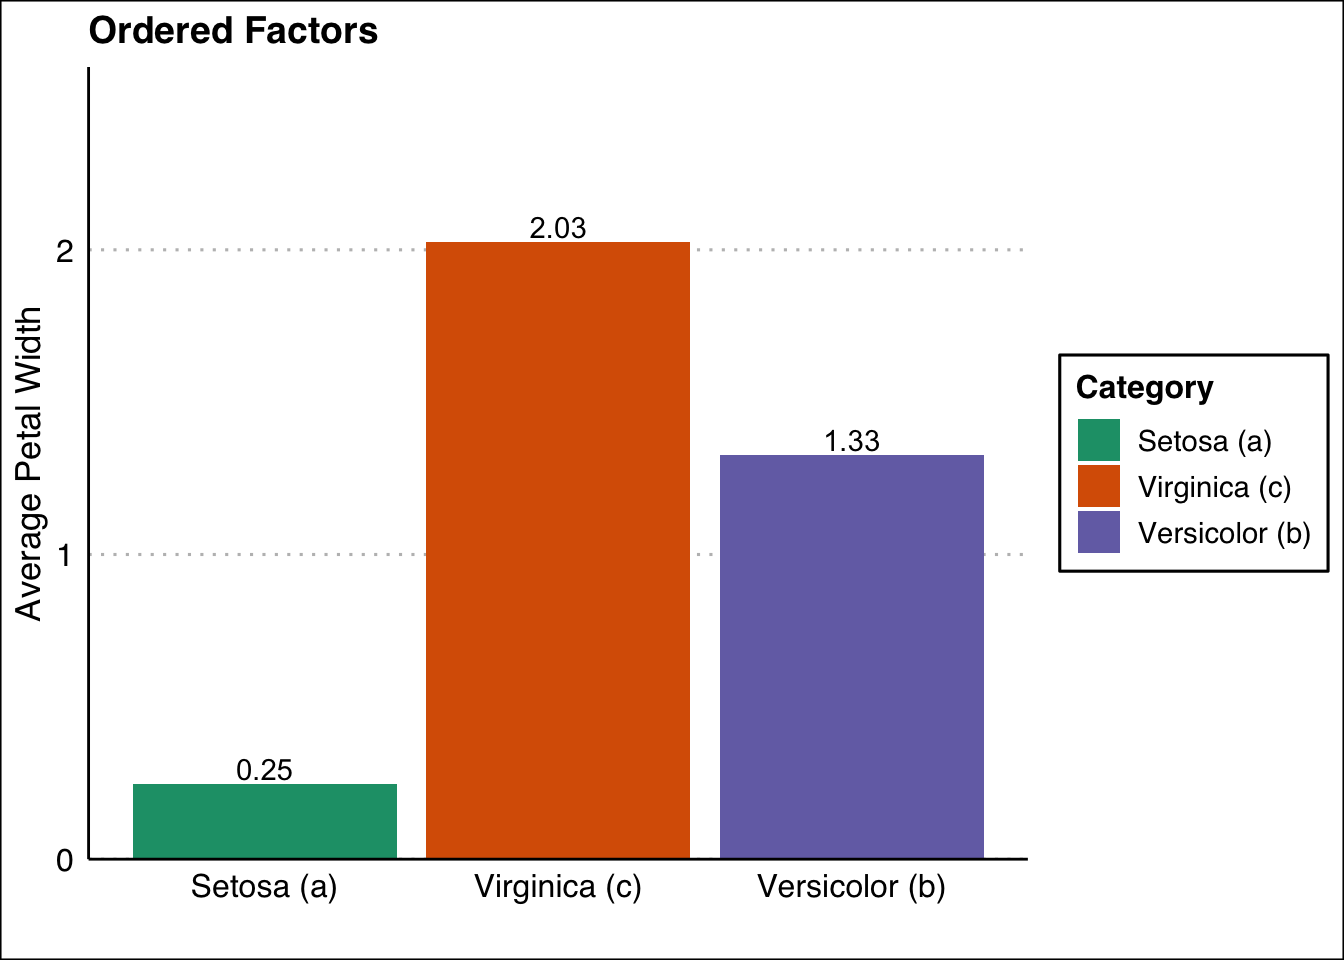
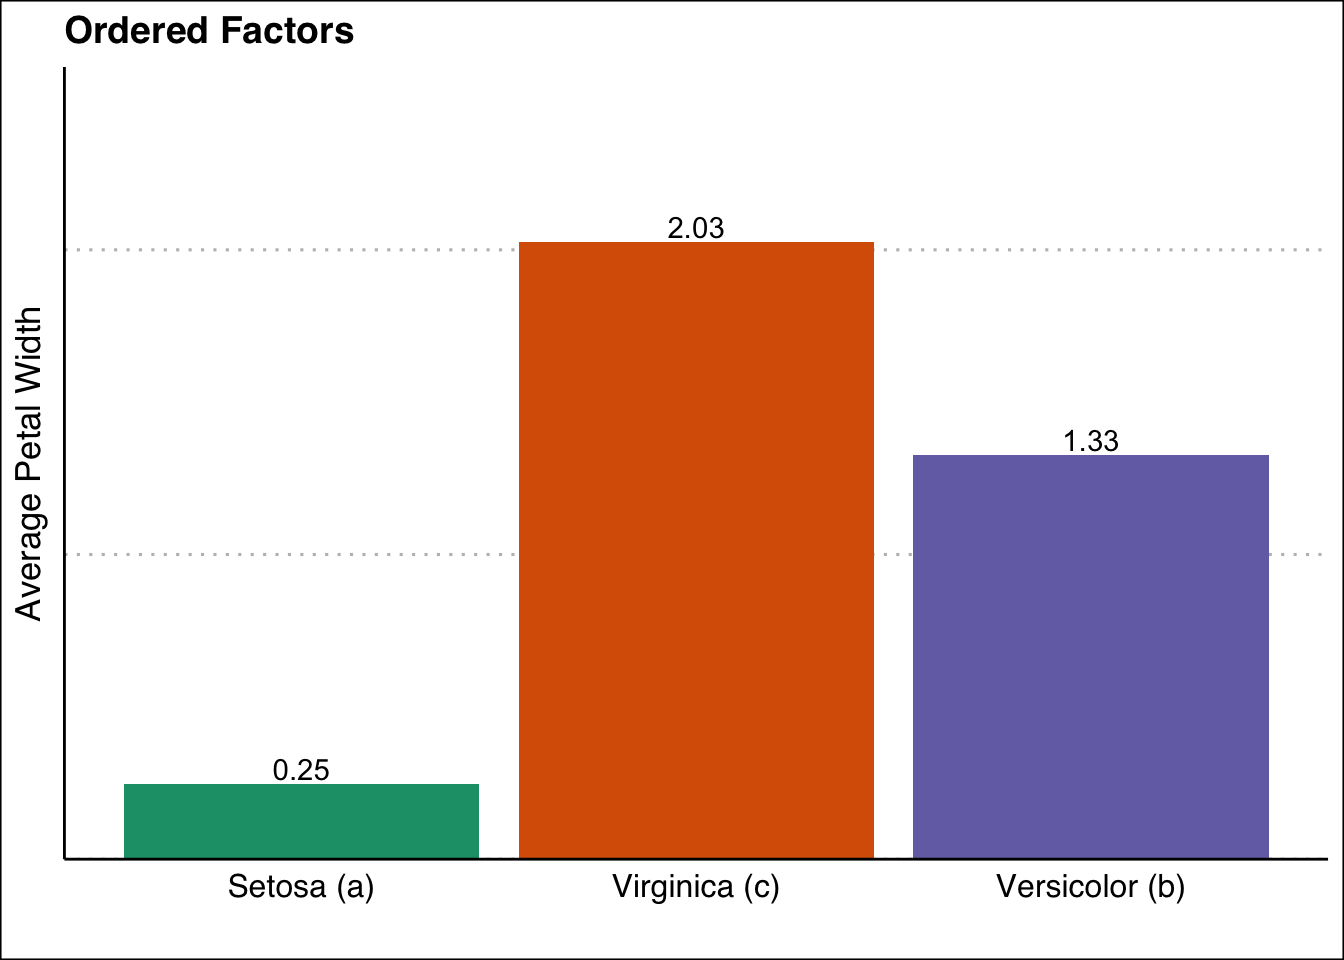
Cleaning up plot

diff --git a/content/post/2021-12-15-r-factors/index.en.html b/content/post/2021-12-15-r-factors/index.en.html
@@ -57,6 +57,8 @@ VALS &lt;- tribble(
     axis.ticks = element_blank(),
     axis.title = element_text(size=13),
     axis.text = element_text(size=12),
+    axis.text.y = element_blank(),
+    legend.position = &#39;none&#39;
   )</code></pre>
 <p><img src="{{< blogdown/postref >}}index.en_files/figure-html/unnamed-chunk-2-1.png" width="672" /></p>
 <hr />
